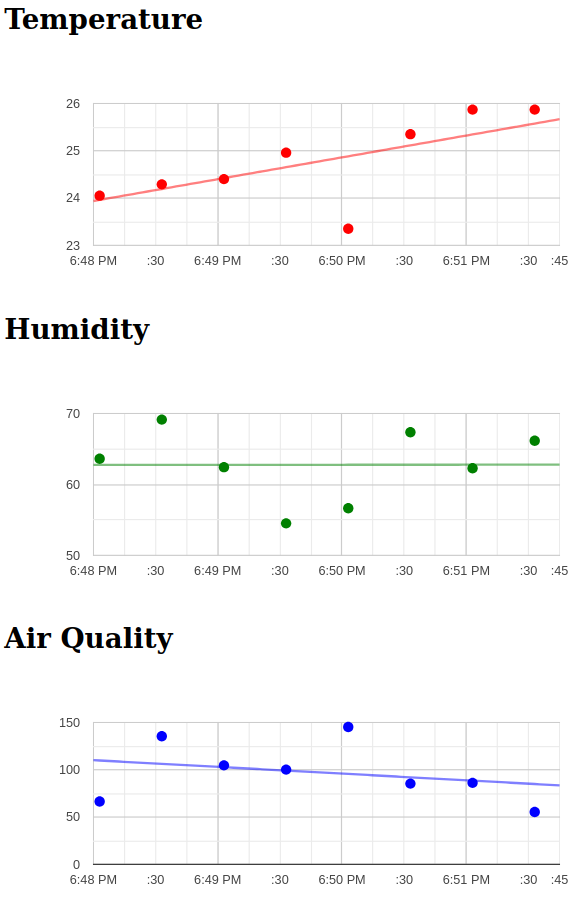
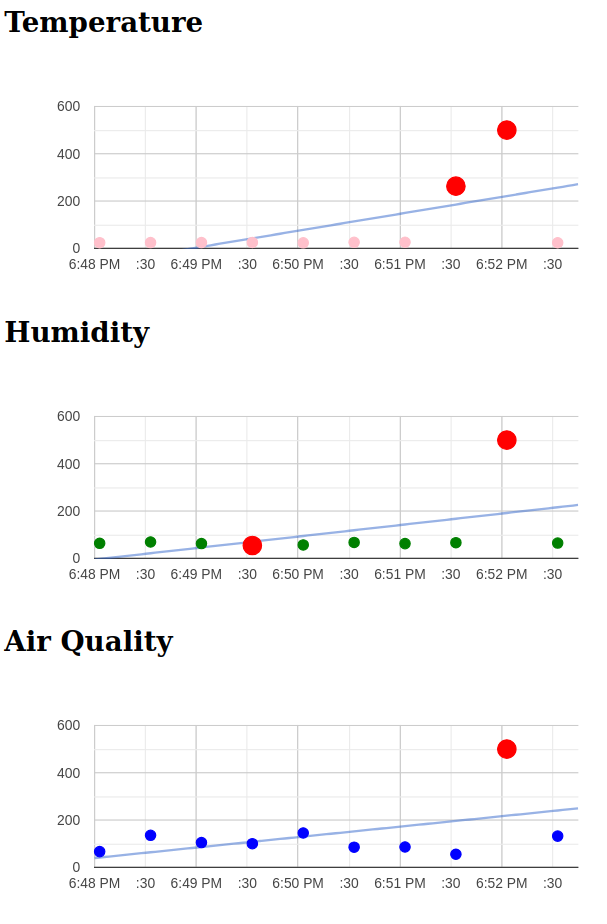
detect and highlight outliers instead of remove

diff --git a/frontend/src/components/SensorChart.vue b/frontend/src/components/SensorChart.vue
@@ -65,17 +65,21 @@ export default {
       const dataTable = new window.google.visualization.DataTable();
       dataTable.addColumn("datetime", "Time");
       dataTable.addColumn("number", "Temperature");
+      dataTable.addColumn({ type: "string", role: "style" });
 
       const rows = validData.map((item) => [
         new Date(item.timestamp),
         item.temperature,
+        item.temperature_outlier
+          ? "point { color: red; size: 8; }"
+          : "point { color: pink; }",
       ]);
+
       dataTable.addRows(rows);
 
       const chart = new window.google.visualization.ScatterChart(el);
       chart.draw(dataTable, {
         legend: { position: "none" },
-        colors: ["red"],
         trendlines: { 0: {} },
       });
     },
@@ -92,17 +96,21 @@ export default {
       const dataTable = new window.google.visualization.DataTable();
       dataTable.addColumn("datetime", "Time");
       dataTable.addColumn("number", "Humidity");
+      dataTable.addColumn({ type: "string", role: "style" });
 
       const rows = validData.map((item) => [
         new Date(item.timestamp),
         item.humidity,
+        item.humidity_outlier
+          ? "point { color: red; size: 8; }"
+          : "point { color: green; }",
       ]);
+
       dataTable.addRows(rows);
 
       const chart = new window.google.visualization.ScatterChart(el);
       chart.draw(dataTable, {
         legend: { position: "none" },
-        colors: ["green"],
         trendlines: { 0: {} },
       });
     },
@@ -119,17 +127,21 @@ export default {
       const dataTable = new window.google.visualization.DataTable();
       dataTable.addColumn("datetime", "Time");
       dataTable.addColumn("number", "Air Quality");
+      dataTable.addColumn({ type: "string", role: "style" });
 
       const rows = validData.map((item) => [
         new Date(item.timestamp),
         item.air_quality,
+        item.air_quality_outlier
+          ? "point { color: red; size: 8; }"
+          : "point { color: blue; }",
       ]);
+
       dataTable.addRows(rows);
 
       const chart = new window.google.visualization.ScatterChart(el);
       chart.draw(dataTable, {
         legend: { position: "none" },
-        colors: ["blue"],
         trendlines: { 0: {} },
       });
     },

diff --git a/README.md b/README.md
@@ -4,7 +4,7 @@
 
 ## Data cleaning approach
 
-All data processing is done using Pandas. First, duplicate records are removed to keep unique timestamps. Then, missing values in numerical columns are filled using time-based interpolation. Finally, outliers are detected and removed using IQR method.
+All data processing is done using Pandas. First, duplicate records are removed to keep unique timestamps. Then, missing values in numerical columns are filled using time-based interpolation. Finally, outliers are detected using IQR method.
 
 # Setup instructions
 
